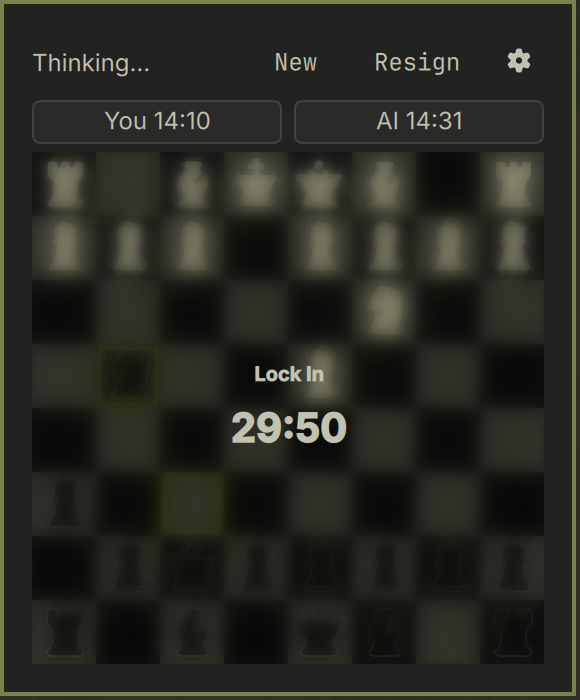
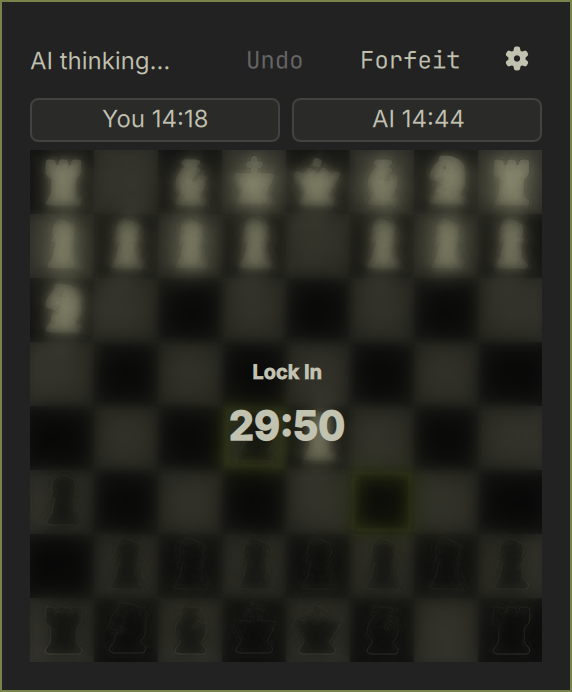
Refresh screenshots and note theme awareness
The posted shots predated #2: New | Resign and Thinking... where the build
now reads Undo | Forfeit and AI thinking.... Swapped for captures of the
current UI.

README now says up front that the board, pieces and controls all come from
the active shell theme.

diff --git a/README.md b/README.md
@@ -1,7 +1,9 @@
 # OmaChess
 
 Chess against a built-in AI, in your bar. Full rules, undo, clocks, and a
-focus timer that makes you sit with your move.
+focus timer that makes you sit with your move. Everything is drawn from your
+active shell theme — board, pieces, controls — so it fits whatever desktop
+you've put together rather than imposing its own.
 
 ![A game in progress](screenshots/mid-game.png)
 
